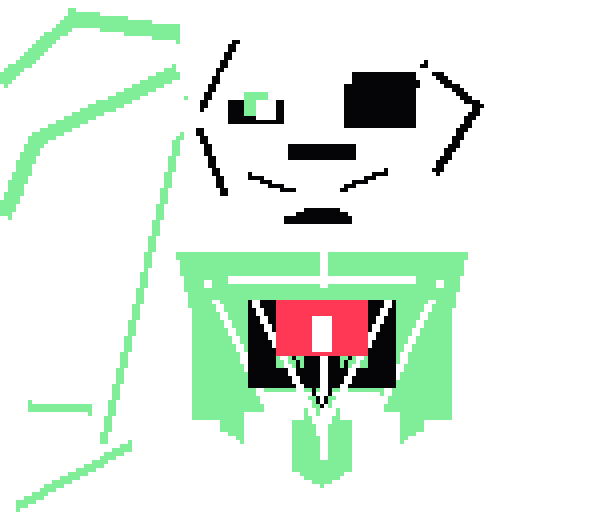
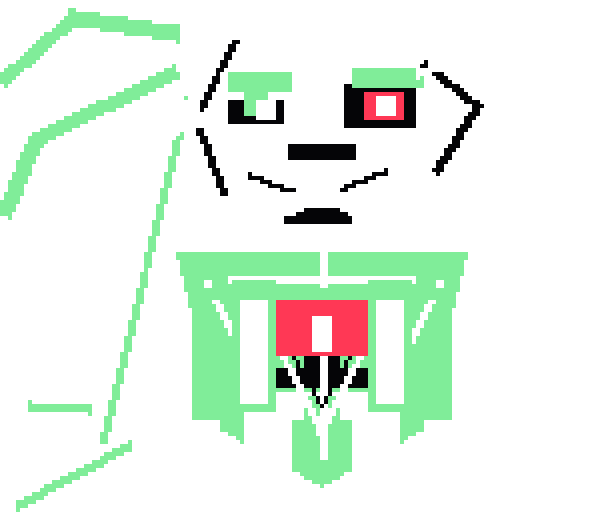
Strengthen undying and mettaton finales

diff --git a/script.js b/script.js
@@ -1436,6 +1436,21 @@ function undyingPattern(dt) {
     spawn("spear", { x: arena.x + arena.w * ([0.2, 0.42, 0.68, 0.84, 0.34, 0.58][index % 6]), y: arena.y - 35, vx: 0, vy: 314 + progress * 32, r: 12, angle: Math.PI / 2, delay: intensityRange(0.24, 0.16) });
     if (index % 3 !== 1) spawn("spear", { x: arena.x - 35, y: arena.y + arena.h * ([0.26, 0.52, 0.76][index % 3]), vx: 328 + progress * 30, vy: 0, r: 12, angle: 0, delay: intensityRange(0.28, 0.18) });
   }
+  if (state.wave === 2 && every("undying-ring-salvo", 1.12 - progress * 0.1, dt)) {
+    const index = sequenceIndex(1.12 - progress * 0.1);
+    const skip = index % 10;
+    const cx = arena.x + arena.w / 2;
+    const cy = arena.y + arena.h / 2;
+    const radius = Math.max(arena.w, arena.h) / 2 + 42;
+    for (let i = 0; i < 10; i++) {
+      if (i === skip || i === (skip + 1) % 10 || i === (skip + 9) % 10) continue;
+      const a = (Math.PI * 2 * i) / 10 + patternClock() * 0.18;
+      const x = cx + Math.cos(a) * radius;
+      const y = cy + Math.sin(a) * radius;
+      const toward = Math.atan2(cy - y, cx - x);
+      spawn("spear", { x, y, vx: Math.cos(toward) * (252 + progress * 48), vy: Math.sin(toward) * (252 + progress * 48), r: 12, angle: toward, delay: intensityRange(0.3, 0.2) });
+    }
+  }
 }
 
 function omegaPattern(dt) {
@@ -1625,6 +1640,13 @@ function mettatonPattern(dt) {
   if (state.wave === 2 && every("mettaton-rush", legInterval, dt)) {
     const y = arena.y + arena.h * ([0.22, 0.44, 0.68, 0.82, 0.36][sequenceIndex(legInterval) % 5]);
     spawn("leg", { x: arena.x + arena.w + 45, y, vx: -448, vy: 0, r: 22, angle: Math.PI, delay: intensityRange(0.36, 0.25) });
+  }
+  if (state.wave === 2 && every("mettaton-ratings-pellets", 0.34 - progress * 0.05, dt)) {
+    const index = sequenceIndex(0.34 - progress * 0.05);
+    const lanes = [0.16, 0.3, 0.44, 0.58, 0.72, 0.86, 0.38, 0.66];
+    const x = arena.x + arena.w * lanes[index % lanes.length];
+    const sway = index % 2 === 0 ? 42 : -42;
+    spawn("pellet", { x, y: arena.y - 18, vx: sway, vy: 218 + progress * 42, r: 7, angle: Math.PI / 2, spin: 3.2 });
   }
 }
 

diff --git a/tools/generate_boss_portraits.py b/tools/generate_boss_portraits.py
@@ -207,6 +207,11 @@ def undyne(name="undyne", undying=False):
     rect(d, (91, 23, 99, 29), BLACK)
     rect(d, (64, 25, 68, 29), WHITE)
     rect(d, (88, 18, 104, 21), BLACK)
+    if undying:
+        rect(d, (57, 18, 72, 22), GREEN)
+        rect(d, (88, 17, 105, 21), GREEN)
+        rect(d, (91, 23, 100, 29), RED)
+        rect(d, (94, 24, 98, 28), WHITE)
     line(d, [(62, 43), (78, 49), (96, 42)], BLACK, 2)
     rect(d, (72, 36, 88, 39), BLACK)
     rect(d, (71, 52, 87, 55), BLACK)
@@ -232,6 +237,10 @@ def undyne(name="undyne", undying=False):
         line(d, [(47, 73), (113, 73)], GREEN, 3)
         rect(d, (74, 75, 86, 86), RED)
         rect(d, (78, 79, 82, 87), WHITE)
+        rect(d, (58, 70, 68, 106), GREEN)
+        rect(d, (92, 70, 102, 106), GREEN)
+        rect(d, (60, 75, 66, 100), WHITE)
+        rect(d, (94, 75, 100, 100), WHITE)
     line(d, [(39, 66), (24, 102), (15, 124)], WHITE, 3)
     line(d, [(122, 63), (139, 101)], WHITE, 3)
     line(d, [(22, 102), (7, 101)], color, 3)
@@ -397,10 +406,13 @@ def mettaton():
     rect(d, (87, 24, 101, 31), BLACK)
     rect(d, (64, 25, 71, 30), PINK)
     rect(d, (90, 25, 97, 29), PINK)
+    rect(d, (66, 26, 70, 29), WHITE)
+    rect(d, (92, 26, 96, 29), WHITE)
     rect(d, (69, 39, 97, 43), BLACK)
     line(d, [(65, 38), (83, 44), (102, 36)], BLACK, 2)
     rect(d, (72, 45, 96, 48), BLACK)
     rect(d, (70, 49, 95, 51), WHITE)
+    rect(d, (75, 42, 91, 45), PINK)
     line(d, [(18, 61), (56, 55), (104, 55), (142, 61)], WHITE, 4)
     rect(d, (48, 57, 112, 67), PINK)
     poly(d, [(53, 66), (107, 66), (102, 104), (80, 118), (58, 104)], WHITE)
@@ -415,6 +427,8 @@ def mettaton():
     line(d, [(64, 70), (80, 118), (96, 70)], PINK, 2)
     rect(d, (70, 76, 90, 98), PINK)
     rect(d, (75, 81, 85, 93), WHITE)
+    rect(d, (72, 78, 88, 82), WHITE)
+    rect(d, (76, 84, 84, 92), PINK)
     line(d, [(50, 73), (17, 117)], WHITE, 4)
     line(d, [(110, 73), (143, 117)], WHITE, 4)
     line(d, [(65, 101), (43, 126)], WHITE, 5)

diff --git a/README.md b/README.md
@@ -55,6 +55,7 @@ Mettaton bomb shots now burst into quick shard pellets, Omega Flowey petals and 
 The newest portrait pass adds more hand-placed face pixels and shirt panels for Undyne, Undyne the Undying, Asriel, and Mettaton, plus snappier Undyne cross-lances, Sans bones, and Mettaton spotlight/leg entries.
 Asgore, Disbelief Papyrus, Omega Flowey, and the Bad Time Trio now have sharper hand-placed outfit/face cues, and the Sans and Asgore finales add extra original beam and fire-grid pressure with readable safe lanes.
 Sans and Asriel now have clearer hand-placed face, clothing, and emblem details, while Undyne's green-heart cyclone adds shield-direction chords and Omega Flowey's vine cage adds faster seed pellets.
+Undyne the Undying and Mettaton now have stronger face/core/armor pixel reads, with a new original Undying spear-ring salvo and faster Mettaton ratings pellets in their final waves.
 Dynamic wave ramps use staged opener/build/finale intensity, so attacks start readable and tighten toward the end instead of changing at one flat rate.
 Weapon warnings and hazard telegraphs also follow that intensity curve, giving longer reads at the start of a turn and quicker warnings during the finale.
 Pattern sequencing now advances with the tuned spawn rate, so faster waves use the intended ordered reads instead of repeating lanes; Sans, Undyne, Undying, Asgore, Omega, Asriel, Mettaton, and Disbelief patterns have tighter speeds and more source-style safe gaps.
